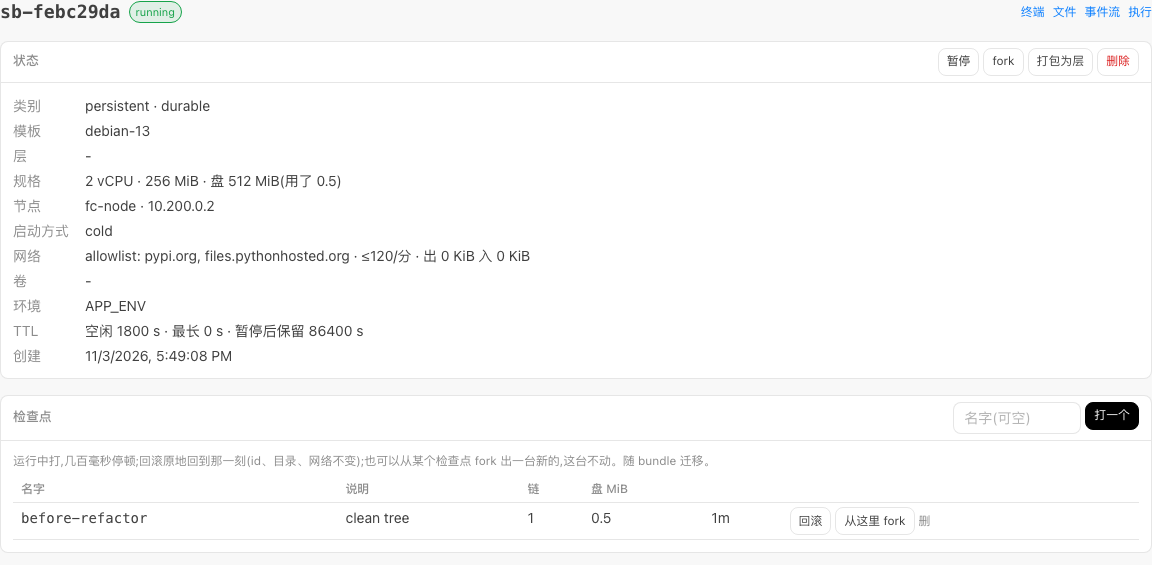
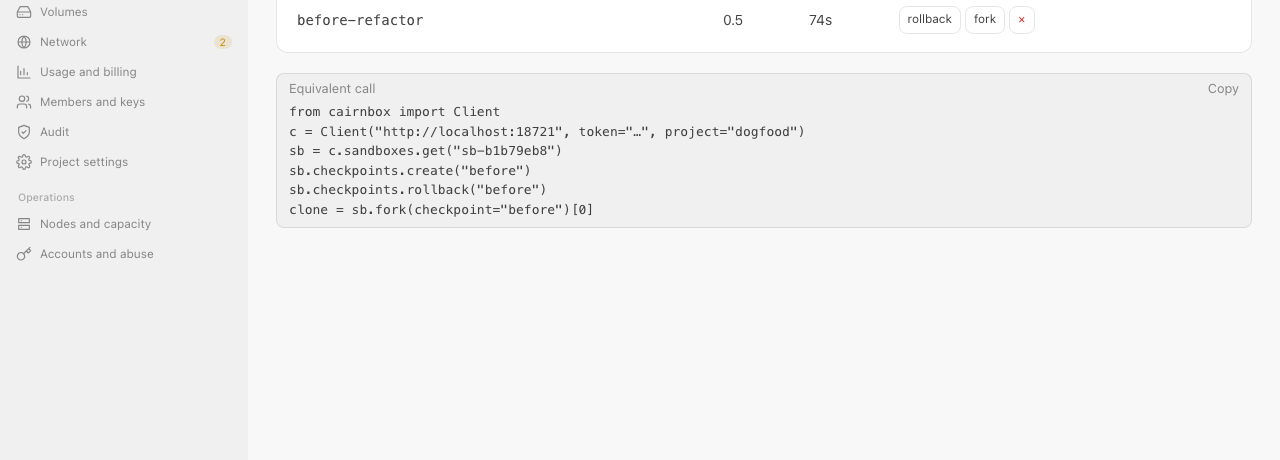
English by default: README.md in English (README.zh.md for Chinese), console defaults to English, new English screenshots

diff --git a/console/src/lib/i18n.tsx b/console/src/lib/i18n.tsx
@@ -90,9 +90,9 @@ export function translate(lang: Lang, key: string, vars?: Record<string, string 
   return s
 }
 
-const Ctx = createContext<{ lang: Lang; setLang: (l: Lang) => void; t: (k: string, v?: Record<string, string | number>) => string }>({ lang: 'zh', setLang: () => {}, t: k => k })
+const Ctx = createContext<{ lang: Lang; setLang: (l: Lang) => void; t: (k: string, v?: Record<string, string | number>) => string }>({ lang: 'en', setLang: () => {}, t: k => k })
 export function I18nProvider({ children }: { children: ReactNode }) {
-  const [lang, setLangState] = useState<Lang>('zh')
+  const [lang, setLangState] = useState<Lang>('en')
   useEffect(() => { const l = getLang(); if (l === 'en' || l === 'zh') setLangState(l) }, [])
   const setLang = (l: Lang) => { setLangState(l); setLangKey(l); document.documentElement.lang = l === 'zh' ? 'zh-CN' : 'en' }
   return <Ctx.Provider value={{ lang, setLang, t: (k, v) => translate(lang, k, v) }}>{children}</Ctx.Provider>
@@ -109,7 +109,12 @@ export function serverError(lang: Lang, msg: string) {
   const m = /^(account id|user|project id): lowercase letters, digits, _ or -, 2-32 chars$/.exec(msg)
   return m ? '名称只能用小写字母、数字、_ 或 -,2-32 位' : msg
 }
+const EN_WORD: Record<string, string> = { op: 'Operation', env: 'Environment', ttl: 'TTL', by: 'By', ip: 'IP', id: 'ID', vcpu: 'vCPU' }
 export function word(lang: Lang, x: unknown) {
-  return typeof x === 'string' && x ? (DICT[lang]['w.' + x] ?? (lang === 'zh' ? zh['w.' + x] : undefined) ?? x) : x
+  if (typeof x !== 'string' || !x) return x
+  const v = DICT[lang]['w.' + x] ?? (lang === 'zh' ? zh['w.' + x] : undefined)
+  if (v !== undefined) return v
+  if (lang === 'en') return EN_WORD[x] ?? (/^[a-z][a-z /()-]*$/.test(x) ? x[0].toUpperCase() + x.slice(1) : x)   // 源码里的英文键多是小写,英文界面首字母大写
+  return x
 }
 export const useI18n = () => useContext(Ctx)

diff --git a/console/src/app/layout.tsx b/console/src/app/layout.tsx
@@ -2,7 +2,7 @@ import type { Metadata } from 'next'
 import './globals.css'
 import { Providers } from './providers'
 
-export const metadata: Metadata = { title: 'Cairn 沙箱云控制台', description: 'Cairn sandbox cloud console' }
+export const metadata: Metadata = { title: 'Cairn Sandbox Cloud Console', description: 'Cairn sandbox cloud console' }
 export default function RootLayout({ children }: { children: React.ReactNode }) {
-  return <html lang="zh-CN"><body><Providers>{children}</Providers></body></html>
+  return <html lang="en"><body><Providers>{children}</Providers></body></html>
 }

diff --git a/console/src/app/(console)/overview/page.tsx b/console/src/app/(console)/overview/page.tsx
@@ -27,7 +27,7 @@ export default function Overview() {
   const err = sbs.error || health.error
 
   if (sbs.data && mine.length === 0) {
-    const origin = typeof window !== 'undefined' ? window.location.origin : 'http://<控制面>'
+    const origin = typeof window !== 'undefined' ? window.location.origin : 'http://<control-plane>'
     return (
       <>
         {err && <ErrorLine>{(err as Error).message}</ErrorLine>}

diff --git a/README.md b/README.md
@@ -4,29 +4,29 @@
 
 <br>
 
-[![ci](https://github.com/William2333ZZ/cairn/actions/workflows/ci.yml/badge.svg)](https://github.com/William2333ZZ/cairn/actions/workflows/ci.yml) [![license](https://img.shields.io/badge/license-Apache--2.0-14B8A6)](LICENSE) [![status](https://img.shields.io/badge/status-early_(0.x)-F59E0B)](#状态) [![platform](https://img.shields.io/badge/runs_on-Linux_x86__64_+_KVM-64748B)](docs/en/quickstart.md) [![stack](https://img.shields.io/badge/built_with-Go_·_Python_·_Rust_·_Firecracker-64748B)](docs/en/architecture.md)
+[![ci](https://github.com/William2333ZZ/cairn/actions/workflows/ci.yml/badge.svg)](https://github.com/William2333ZZ/cairn/actions/workflows/ci.yml) [![license](https://img.shields.io/badge/license-Apache--2.0-14B8A6)](LICENSE) [![status](https://img.shields.io/badge/status-early_(0.x)-F59E0B)](#status) [![platform](https://img.shields.io/badge/runs_on-Linux_x86__64_+_KVM-64748B)](docs/en/quickstart.md) [![stack](https://img.shields.io/badge/built_with-Go_·_Python_·_Rust_·_Firecracker-64748B)](docs/en/architecture.md)
 
-**[中文](README.md) · [English](README.en.md) · [快速开始](docs/en/quickstart.md) · [功能清单](docs/guide/features.md) · [路线图](ROADMAP.md) · [设计决定](docs/decisions-index.md)**
+**[English](README.md) · [中文](README.zh.md) · [Quickstart](docs/en/quickstart.md) · [Features](docs/guide/features.md) · [Roadmap](ROADMAP.md) · [Design decisions](docs/decisions-index.md)**
 
 </div>
 
-agent 写代码、跑命令、装依赖,总会出错,也总有一天会做不该做的事。Cairn 把它放进一台**随时可以倒回去**的虚拟机里:每台沙箱是独立的 microVM,有自己的内核,不和宿主或别的沙箱共用。
+Agents write code, run commands and install packages. They get things wrong, and one day they will do something they should not. Cairn puts them in a microVM you can **rewind**: each sandbox is its own microVM with its own kernel, shared with neither the host nor other sandboxes.
 
 | | |
 | :-- | :-- |
-| ⏪ **倒得回去** | 运行中打检查点(我们的实测里只暂停约 0.1 秒),原地回滚(id 与网络不变),或从任一检查点 fork 出 n 份各试各的。 |
-| 🔒 **出不去,除非你批** | 沙箱默认没有直连网络,出站请求经代理、只放行白名单。成员想放宽要所有者批准;密钥在代理处注入,不进沙箱。 |
-| 🧾 **查得到** | 控制面做过的每件事(包括每次 `exec` 和文件读写)记进哈希链,可以核对没被改过。 |
-| 👥 **知道在为谁干活** | 账户、项目、成员、配额、预付额度与用量账单,都在沙箱这一层。 |
+| ⏪ **Rewind** | Checkpoint a running sandbox (a pause of about 0.1 s in our runs), roll it back in place (same id, same address), or fork n copies from any checkpoint to try different things. |
+| 🔒 **No way out unless approved** | A sandbox has no direct network by default. Outbound requests go through a proxy that allows only listed hosts; a member who wants to loosen the list needs an owner's approval; credentials are injected at the proxy and never enter the sandbox. |
+| 🧾 **On record** | Everything the control plane does, including each `exec` and file operation, goes into a hash chain you can verify. |
+| 👥 **Knows who it works for** | Accounts, projects, members, quotas, prepaid credit and usage billing live in the sandbox layer. |
 
 <div align="center">
-<img src="docs/assets/timeline.svg" alt="打检查点、回滚、fork" width="92%">
+<img src="docs/assets/timeline.svg" alt="Checkpoint, rollback and fork" width="92%">
 </div>
 
-## 快速开始
+## Quick start
 
 ```bash
-scripts/bootstrap.sh && cd deploy && docker compose up -d        # 第一次要编译内核,见下面的说明
+scripts/bootstrap.sh && cd deploy && docker compose up -d        # the first run compiles a kernel; see the note below
 pip install -e sdk/python
 export CAIRN_URL=http://127.0.0.1:18700 CAIRN_TOKEN=$(cat deploy/secrets/cp.token)
 python3 sdk/python/examples/quickstart.py
@@ -35,61 +35,57 @@ python3 sdk/python/examples/quickstart.py
 ```python
 from cairnbox import Client
 
-c = Client("http://127.0.0.1:18700", token="…", project="acme")
+c = Client("http://127.0.0.1:18700", token="...", project="acme")
 with c.sandboxes.create(mem=512, network={"allow_hosts": ["pypi.org"]}) as sb:
     print(sb.commands.run("python3 -V").check().stdout)
     sb.checkpoints.create("clean")
     sb.commands.run("rm -rf /home/agent/*")
-    sb.checkpoints.rollback("clean")                  # 文件回来了
-    clone = sb.fork(checkpoint="clean")[0]            # 从同一点分出一份独立的
+    sb.checkpoints.rollback("clean")                  # the files are back
+    clone = sb.fork(checkpoint="clean")[0]            # an independent copy from the same point
+```
+
+```ts
+import { Client } from "cairnbox";
+
+const c = new Client({ url: "http://127.0.0.1:18700", token: "..." });
+const sb = await c.sandboxes.create({ mem: 512 });
+console.log((await sb.commands.run("uname -a")).stdout);
+await sb.kill();
 ```
 
 > [!NOTE]
-> 需要 Linux x86_64、`/dev/kvm`、Docker 24+(compose v2)、约 15 GB 磁盘。第一次装要编译 guest 内核,30–60 分钟。
-> JS / TS:`sdk/js`(`cairnbox`,零依赖)。给 agent 当工具:`claude mcp add cairn -- python3 -m cairnbox.mcp`。
-> 另有一个 E2B 形状的 REST 口(18710 端口):`Sandbox.create` / list / pause / resume / kill 等常用调用能用,**不是完整兼容**,差异见 [docs/guide/sdk.md](docs/guide/sdk.md)。
+> Needs Linux x86_64 with `/dev/kvm`, Docker 24+ with compose v2 and about 15 GB of disk. The first install compiles a guest kernel (30-60 minutes).
+> For agents: `claude mcp add cairn -- python3 -m cairnbox.mcp`. An E2B-shaped REST surface listens on port 18710: `Sandbox.create` / list / pause / resume / kill and similar common calls work, but it is **not full compatibility** (differences in [docs/guide/sdk.md](docs/guide/sdk.md), in Chinese).
 
-## 它是怎么搭的
+## How it fits together
 
 <div align="center">
-<img src="docs/assets/architecture.svg" alt="架构" width="92%">
+<img src="docs/assets/architecture.svg" alt="Architecture" width="92%">
 </div>
 
-底下是 Firecracker microVM(由 jailer 启动),上面是控制面、Python 与 JS SDK、CLI、MCP 和控制台。**agent 层是可选的**:一个托管的个人编码 agent,
-沙箱认识它的预算、工单和事件;它只通过 HTTP 或 SDK 要沙箱,不用它,沙箱云照样跑(`tests/unit/test_layers.py` 强制这条边界)。
+Underneath are Firecracker microVMs under the jailer; on top are a control plane, Python and JS SDKs, a CLI, an MCP server and a web console. The **agent layer is optional**: a hosted personal coding agent
+that the sandbox knows by its budget, tickets and events. It reaches the sandbox cloud only through the HTTP API or the SDK, and the sandbox cloud runs without it (`tests/unit/test_layers.py` enforces the boundary).
 
 <div align="center">
-<img src="docs/assets/shot-sandbox.png" alt="沙箱详情" width="92%"><br><sub>一台沙箱:规格、网络与限额、检查点打 / 回滚 / fork</sub>
+<img src="docs/assets/shot-sandbox.png" alt="A sandbox" width="92%"><br><sub>One sandbox's checkpoints: roll back in place, or fork a new sandbox from any of them</sub>
 <br><br>
-<img src="docs/assets/shot-audit.png" alt="审计" width="92%"><br><sub>审计:控制面做过的每件事,哈希链可核对</sub>
+<img src="docs/assets/shot-audit.png" alt="Audit" width="92%"><br><sub>Audit: everything the control plane did, verifiable as a hash chain</sub>
 </div>
 
-<details>
-<summary><b>agent 层是什么</b></summary>
-
-一个托管的、会变强的个人编码 agent:接进你已经在用的地方(代码托管、聊天工具),在对话里交代一件事,然后走开。它只在**做完了、卡住了、要你做决定**时找你;
-不可逆的事(合并、向外发消息、超预算、定例行)只给你一份草稿,你同意才发生。你纠正它一次,它记成规则,以后每件事开始时带着,有检查的规则在交付前先被检查一遍。
-一个人的一天见 [docs/001](docs/001-journey.md);工作台见 [docs/008](docs/008-workbench.md)。这一层同样是 Apache-2.0,但比沙箱云更早期。
-
-</details>
-
-## 状态
+## Status
 
 > [!WARNING]
-> 单台机器上实测。**没有外部渗透测试**,没有对外基线,多节点未做压力。`scripts/bootstrap.sh` 本身没有从干净机器整条跑过(分步验证见 [docs/en/quickstart.md](docs/en/quickstart.md) 末尾),项目之外还没人照着装过。
-> 别把它当作隔离不可信公共租户的唯一屏障。
+> Measured on one host. **No external penetration test**, no published baseline against other sandboxes, multi-node not load-tested. `scripts/bootstrap.sh` has not been run end to end from a clean machine
+> (the steps were verified separately; see the end of [docs/en/quickstart.md](docs/en/quickstart.md)), and nobody outside the project has followed the instructions yet. Do not treat it as the only barrier between untrusted public tenants and anything valuable.
 
-没做的事都写在 [ROADMAP.md](ROADMAP.md)。安全问题请走 [SECURITY.md](SECURITY.md),不要开公开 issue。
+What is missing: [ROADMAP.md](ROADMAP.md). Security problems: [SECURITY.md](SECURITY.md), not a public issue.
 
-## 读下去
+## Read on
 
 | | |
 | :-- | :-- |
-| 用的人 | [docs/guide/](docs/guide/README.md):租户手册、API 参考、SDK 与 MCP 参考、教程 · [功能清单](docs/guide/features.md) |
-| 读代码的人 | [docs/README.md](docs/README.md)(000 原则 … 013 威胁模型)· [docs/011](docs/011-architecture.md) 各部件索引 · [docs/decisions-index.md](docs/decisions-index.md) 每个决定与理由 |
-| 英文读者 | [docs/en/](docs/en/README.md):快速开始、架构、安全模型 |
-| 参与 | [CONTRIBUTING.md](CONTRIBUTING.md)(提交要 `git commit -s`)· [行为准则](CODE_OF_CONDUCT.md) |
+| Using it | [docs/en/](docs/en/README.md): quickstart, architecture, security model · [user guide](docs/guide/README.md) (Chinese) · [features](docs/guide/features.md) |
+| Reading the code | [docs/README.md](docs/README.md) · [docs/011](docs/011-architecture.md) index of parts · [design decisions](docs/decisions-index.md) (Chinese) |
+| Contributing | [CONTRIBUTING.md](CONTRIBUTING.md) (sign off your commits) · [Code of Conduct](CODE_OF_CONDUCT.md) |
 
-目录:`cp/` 控制面(Go)· `node/` 节点代理(Python)· `guest/` guest 内的 runtime(Rust)· `sdk/` SDK、CLI、MCP · `console/` 控制台 · `deploy/` compose 与运维 · `recipes/` 内核、基础镜像、层的配方 · `aios/` `intake/` `eval/` `web/` agent 层。
-
-<div align="center"><sub>Apache-2.0 · <a href="LICENSE">LICENSE</a> · 第三方内容见 <a href="NOTICE">NOTICE</a></sub></div>
+<div align="center"><sub>Apache-2.0 · <a href="LICENSE">LICENSE</a> · third-party material in <a href="NOTICE">NOTICE</a></sub></div>

diff --git a/README.zh.md b/README.zh.md
@@ -1,0 +1,95 @@
+<div align="center">
+
+<img src="docs/assets/banner.svg" alt="Cairn: a sandbox where agents can go back" width="100%">
+
+<br>
+
+[![ci](https://github.com/William2333ZZ/cairn/actions/workflows/ci.yml/badge.svg)](https://github.com/William2333ZZ/cairn/actions/workflows/ci.yml) [![license](https://img.shields.io/badge/license-Apache--2.0-14B8A6)](LICENSE) [![status](https://img.shields.io/badge/status-early_(0.x)-F59E0B)](#状态) [![platform](https://img.shields.io/badge/runs_on-Linux_x86__64_+_KVM-64748B)](docs/en/quickstart.md) [![stack](https://img.shields.io/badge/built_with-Go_·_Python_·_Rust_·_Firecracker-64748B)](docs/en/architecture.md)
+
+**[English](README.md) · [中文](README.zh.md) · [快速开始](docs/en/quickstart.md) · [功能清单](docs/guide/features.md) · [路线图](ROADMAP.md) · [设计决定](docs/decisions-index.md)**
+
+</div>
+
+agent 写代码、跑命令、装依赖,总会出错,也总有一天会做不该做的事。Cairn 把它放进一台**随时可以倒回去**的虚拟机里:每台沙箱是独立的 microVM,有自己的内核,不和宿主或别的沙箱共用。
+
+| | |
+| :-- | :-- |
+| ⏪ **倒得回去** | 运行中打检查点(我们的实测里只暂停约 0.1 秒),原地回滚(id 与网络不变),或从任一检查点 fork 出 n 份各试各的。 |
+| 🔒 **出不去,除非你批** | 沙箱默认没有直连网络,出站请求经代理、只放行白名单。成员想放宽要所有者批准;密钥在代理处注入,不进沙箱。 |
+| 🧾 **查得到** | 控制面做过的每件事(包括每次 `exec` 和文件读写)记进哈希链,可以核对没被改过。 |
+| 👥 **知道在为谁干活** | 账户、项目、成员、配额、预付额度与用量账单,都在沙箱这一层。 |
+
+<div align="center">
+<img src="docs/assets/timeline.svg" alt="打检查点、回滚、fork" width="92%">
+</div>
+
+## 快速开始
+
+```bash
+scripts/bootstrap.sh && cd deploy && docker compose up -d        # 第一次要编译内核,见下面的说明
+pip install -e sdk/python
+export CAIRN_URL=http://127.0.0.1:18700 CAIRN_TOKEN=$(cat deploy/secrets/cp.token)
+python3 sdk/python/examples/quickstart.py
+```
+
+```python
+from cairnbox import Client
+
+c = Client("http://127.0.0.1:18700", token="…", project="acme")
+with c.sandboxes.create(mem=512, network={"allow_hosts": ["pypi.org"]}) as sb:
+    print(sb.commands.run("python3 -V").check().stdout)
+    sb.checkpoints.create("clean")
+    sb.commands.run("rm -rf /home/agent/*")
+    sb.checkpoints.rollback("clean")                  # 文件回来了
+    clone = sb.fork(checkpoint="clean")[0]            # 从同一点分出一份独立的
+```
+
+> [!NOTE]
+> 需要 Linux x86_64、`/dev/kvm`、Docker 24+(compose v2)、约 15 GB 磁盘。第一次装要编译 guest 内核,30–60 分钟。
+> JS / TS:`sdk/js`(`cairnbox`,零依赖)。给 agent 当工具:`claude mcp add cairn -- python3 -m cairnbox.mcp`。
+> 另有一个 E2B 形状的 REST 口(18710 端口):`Sandbox.create` / list / pause / resume / kill 等常用调用能用,**不是完整兼容**,差异见 [docs/guide/sdk.md](docs/guide/sdk.md)。
+
+## 它是怎么搭的
+
+<div align="center">
+<img src="docs/assets/architecture.svg" alt="架构" width="92%">
+</div>
+
+底下是 Firecracker microVM(由 jailer 启动),上面是控制面、Python 与 JS SDK、CLI、MCP 和控制台。**agent 层是可选的**:一个托管的个人编码 agent,
+沙箱认识它的预算、工单和事件;它只通过 HTTP 或 SDK 要沙箱,不用它,沙箱云照样跑(`tests/unit/test_layers.py` 强制这条边界)。
+
+<div align="center">
+<img src="docs/assets/shot-sandbox.png" alt="沙箱详情" width="92%"><br><sub>一台沙箱的检查点:原地回滚,或从任一检查点 fork 出新沙箱(控制台界面默认英文,可切换中文)</sub>
+<br><br>
+<img src="docs/assets/shot-audit.png" alt="审计" width="92%"><br><sub>审计:控制面做过的每件事,哈希链可核对</sub>
+</div>
+
+<details>
+<summary><b>agent 层是什么</b></summary>
+
+一个托管的、会变强的个人编码 agent:接进你已经在用的地方(代码托管、聊天工具),在对话里交代一件事,然后走开。它只在**做完了、卡住了、要你做决定**时找你;
+不可逆的事(合并、向外发消息、超预算、定例行)只给你一份草稿,你同意才发生。你纠正它一次,它记成规则,以后每件事开始时带着,有检查的规则在交付前先被检查一遍。
+一个人的一天见 [docs/001](docs/001-journey.md);工作台见 [docs/008](docs/008-workbench.md)。这一层同样是 Apache-2.0,但比沙箱云更早期。
+
+</details>
+
+## 状态
+
+> [!WARNING]
+> 单台机器上实测。**没有外部渗透测试**,没有对外基线,多节点未做压力。`scripts/bootstrap.sh` 本身没有从干净机器整条跑过(分步验证见 [docs/en/quickstart.md](docs/en/quickstart.md) 末尾),项目之外还没人照着装过。
+> 别把它当作隔离不可信公共租户的唯一屏障。
+
+没做的事都写在 [ROADMAP.md](ROADMAP.md)。安全问题请走 [SECURITY.md](SECURITY.md),不要开公开 issue。
+
+## 读下去
+
+| | |
+| :-- | :-- |
+| 用的人 | [docs/guide/](docs/guide/README.md):租户手册、API 参考、SDK 与 MCP 参考、教程 · [功能清单](docs/guide/features.md) |
+| 读代码的人 | [docs/README.md](docs/README.md)(000 原则 … 013 威胁模型)· [docs/011](docs/011-architecture.md) 各部件索引 · [docs/decisions-index.md](docs/decisions-index.md) 每个决定与理由 |
+| 英文读者 | [docs/en/](docs/en/README.md):快速开始、架构、安全模型 |
+| 参与 | [CONTRIBUTING.md](CONTRIBUTING.md)(提交要 `git commit -s`)· [行为准则](CODE_OF_CONDUCT.md) |
+
+目录:`cp/` 控制面(Go)· `node/` 节点代理(Python)· `guest/` guest 内的 runtime(Rust)· `sdk/` SDK、CLI、MCP · `console/` 控制台 · `deploy/` compose 与运维 · `recipes/` 内核、基础镜像、层的配方 · `aios/` `intake/` `eval/` `web/` agent 层。
+
+<div align="center"><sub>Apache-2.0 · <a href="LICENSE">LICENSE</a> · 第三方内容见 <a href="NOTICE">NOTICE</a></sub></div>

diff --git a/CHANGELOG.md b/CHANGELOG.md
@@ -5,6 +5,7 @@
 ## 控制台外壳跟工作台一致(D84)
 
 ### 沙箱云
+- 对外默认英文:`README.md` 改为英文(中文版是 `README.zh.md`,`README.en.md` 删除);控制台默认英文,界面右下角可切中文,已保存的选择不受影响;英文界面里小写的字段名首字母大写;README 里的两张截图换成新控制台的英文截图(真实控制面上拍的)。
 - 控制台把顶栏加窄侧栏换成工作台那样的左侧栏:应用标记、项目选择、"新沙箱"、带图标的导航、底部的节点状态与账户行;窄于 1024 px 自动收成图标条,窄于 768 px 变抽屉;侧栏可手动收起并记住。
 - 按钮、徽章、卡片标题、表头、输入框的尺寸与边框对齐工作台(`h-8` 控件、带边的状态徽章、安静的卡片标题)。
 - 逐页检查后的小修:中文界面里一批英文表头与详情标签补了译文;成员表补了两列表头;沙箱详情的"事件"面板标题改正;webhook 示例地址去掉旧名。在真实控制面上再看一遍后,审计页的沙箱 id 不再换行、详情改成单行截断(悬停看全文)、表头补了"时间/操作"。再看了登录、注册、退出与令牌失效:退出后不再回到填着旧邀请码的注册表单;登录、注册和公开状态页现在跟随已保存的主题(之前只有控制台外壳里生效);注册失败的几种英文报错在中文界面里译成中文。

diff --git a/docs/en/README.md b/docs/en/README.md
@@ -9,6 +9,6 @@ The API is plain HTTP and the SDKs are self-describing, so most people never nee
 | [architecture.md](architecture.md) | what the parts are and how a request flows through them |
 | [security-model.md](security-model.md) | what is isolated how, who is trusted, what is not done |
 
-Also in English: [`../../README.en.md`](../../README.en.md), [`../../ROADMAP.md`](../../ROADMAP.md), [`../../SECURITY.md`](../../SECURITY.md),
+Also in English: [`../../README.md`](../../README.md), [`../../ROADMAP.md`](../../ROADMAP.md), [`../../SECURITY.md`](../../SECURITY.md),
 [`../../CONTRIBUTING.md`](../../CONTRIBUTING.md). Machine-readable API and SDK references: `sdk/python/cairnbox/`, `sdk/js/src/`.
 Translation of the rest is on the roadmap; pull requests that translate a page are welcome.

diff --git a/docs/decisions.md b/docs/decisions.md
@@ -933,3 +933,6 @@
 
 **可推翻条件**:若某个未检查的页面在新外壳下排版崩掉,按页修,不回退外壳。
 
+### D85 对外默认英文(2026-11-05)
+
+**决定**:仓库首页(`README.md`)和控制台默认英文,中文保留为可选(`README.zh.md`;控制台界面里切换,选择存在浏览器里)。**范围**:不动 agent 工作台 `web/`、源码注释和中文文档(`docs/` 编号链、`docs/guide/`)。**原因**:目标读者是开源社区,首页和第一次打开的界面是第一印象;中文用户仍有明确入口。**代价**:中文文档与英文首页并存,`docs/guide/` 等链接在英文 README 里标了 (Chinese);英文文档目前只有 `docs/en/` 三页。

diff --git a/docs/decisions-index.md b/docs/decisions-index.md
@@ -88,3 +88,4 @@
 | D82 | 开源方向:个人项目、同库两层、自研 VMM 暂缓 | 2026-11-04 |
 | D83 | 项目名 Cairn、改名范围、公开仓库从干净提交开始 | 2026-11-04 |
 | D84 | 控制台外壳向工作台看齐 | 2026-11-04 |
+| D85 | 对外默认英文(README 与控制台) | 2026-11-05 |
